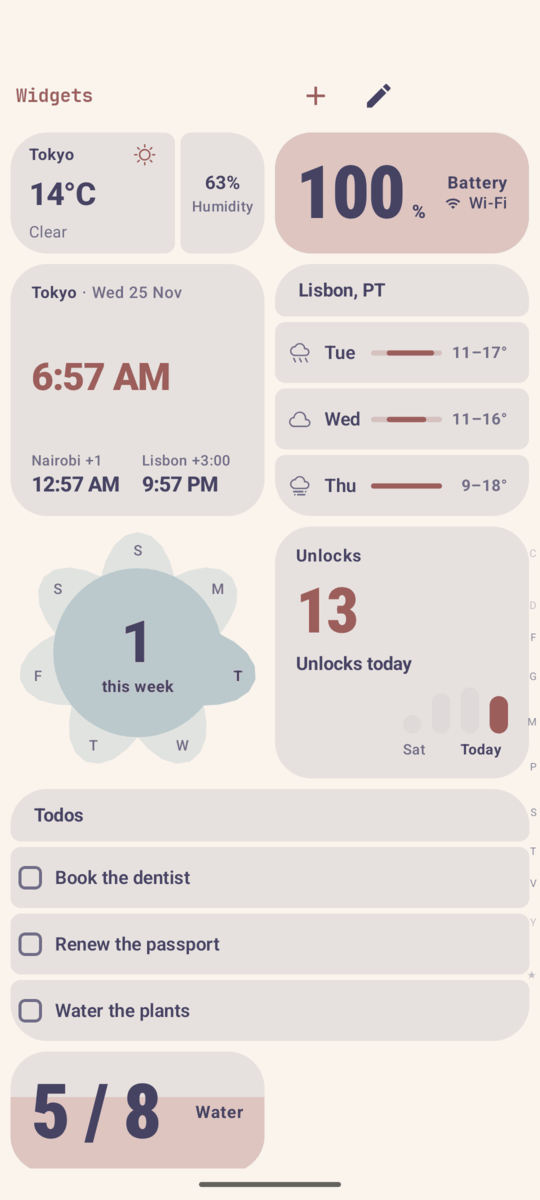
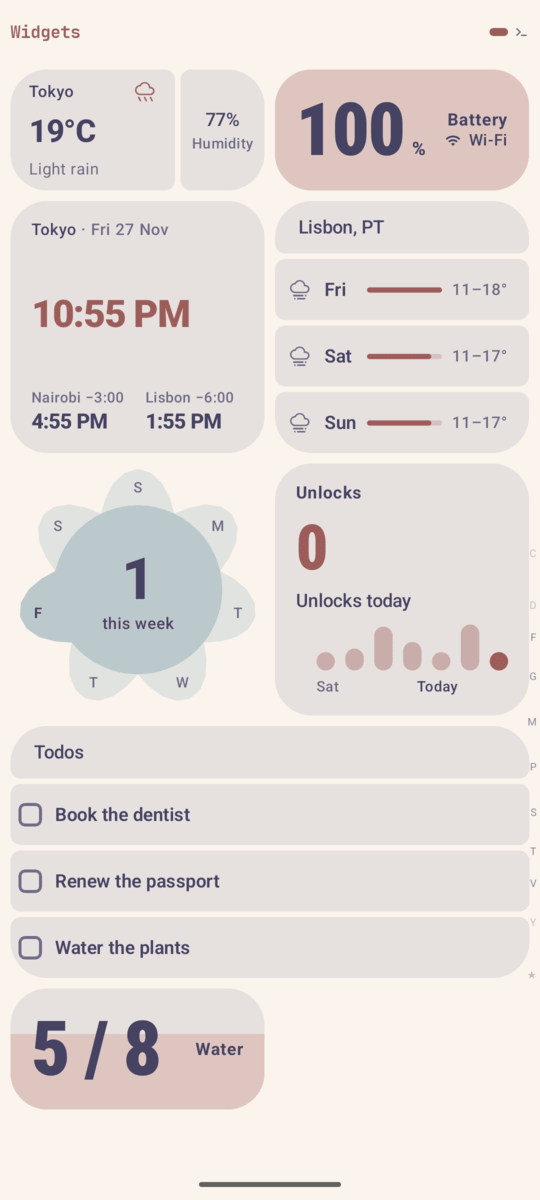
Site: the widgets page's pictures with its new top
Five pictures of the widgets page showed the row with + and the pencil. Retaken on the emulator with the thin strip, with the marks on the parts page moved to match and the picture descriptions corrected.

diff --git a/site/src/gallery.ts b/site/src/gallery.ts
@@ -82,10 +82,10 @@ export const PICTURES: Picture[] = [
 	{ section: 'widgets', file: 'shots/widget-options/settings-city.png', caption: 'A second card’s own page', alt: 'The page of a second weather card: the card live at the top, and its city option set to Paris', href: '/guides/widgets/#the-same-widget-more-than-once' },
 	{ section: 'widgets', file: 'shots/widget-options/settings.png', caption: 'A widget’s settings page', alt: 'The Weather card’s page: the card live at the top in a 4-leaf clover, its city option, and Color with Link chosen', href: '/guides/widgets/#a-widgets-settings-page' },
 	{ section: 'widgets', file: 'shots/widget-options/settings-shape.png', caption: 'Shape and what shows', alt: 'The same page scrolled to the shapes, the 4-leaf clover chosen, and switches for the name and the icon', href: '/guides/widgets/#a-widgets-settings-page' },
-	{ section: 'widgets', file: 'shots/widgets/pages-1.png', caption: 'Page 1 of three', alt: 'The first widgets page, its title row with three dots, the first longer', href: '/guides/widgets/#more-than-one-page' },
+	{ section: 'widgets', file: 'shots/widgets/pages-1.png', caption: 'Page 1 of three', alt: 'The first widgets page: its name in the top corner, and a mark for each page in the other, its own a dash', href: '/guides/widgets/#more-than-one-page' },
 	{ section: 'widgets', file: 'shots/widgets/pages-2.png', caption: 'A page named Travel', alt: 'The second widgets page, named Travel: weather for Paris and two world clocks cards', href: '/guides/widgets/#more-than-one-page' },
 	{ section: 'widgets', file: 'shots/widget-options/arrange-pages.png', caption: 'Pages in Arrange widgets', alt: 'Arrange widgets with tabs for Page 1, Travel and Health, and a card’s Page row', href: '/guides/widgets/#more-than-one-page' },
-	{ section: 'widgets', file: 'parts/widgets-page.png', caption: 'The widgets page', alt: 'The widgets page: the + and pencil buttons at the top, then weather and battery cards, todos and a habit streak, and a row of shortcuts', href: '/guides/widgets/#the-widgets-page' },
+	{ section: 'widgets', file: 'parts/widgets-page.png', caption: 'The widgets page', alt: 'The widgets page: its name and page marks at the top, then weather and battery cards, todos and a habit streak, and a row of shortcuts', href: '/guides/widgets/#the-widgets-page' },
 	{ section: 'widgets', file: 'widgets/battery-2x1.png', caption: 'Battery and network', alt: 'The Battery and network card: 68% in a shape filled to that level, Charging, and Wi-Fi', href: '/guides/widgets/#kolahals-own-widgets' },
 	{ section: 'widgets', file: 'widgets/notes-2x1.png', caption: 'Notes', alt: 'The Notes card: the newest note and when it was written', href: '/guides/widgets/#kolahals-own-widgets' },
 	{ section: 'widgets', file: 'widgets/shortcuts-4x1.png', caption: 'Shortcuts', alt: 'The Shortcuts card: four buttons, torch, dnd, todo and maps', href: '/guides/widgets/#kolahals-own-widgets' },
